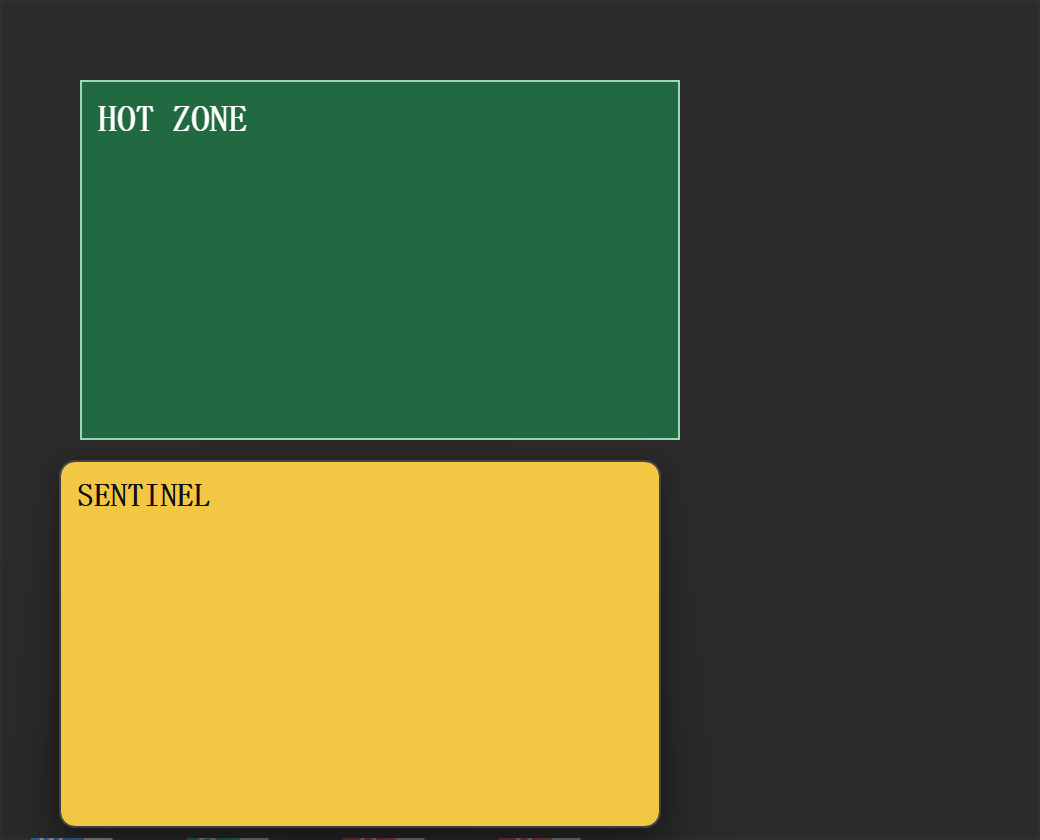
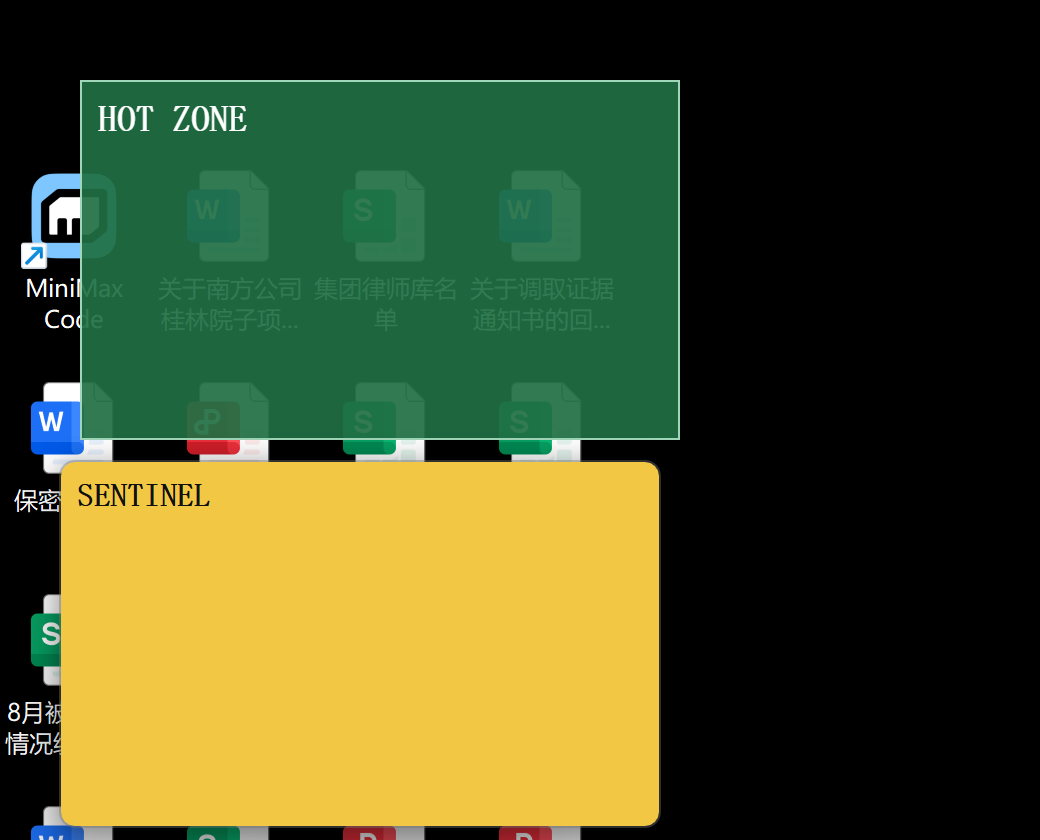
spike01: 评审收编——forward 事件转发单列断言(B 12/12)、降级路径更正(alpha 零差分实证)、清场 await 与去重

diff --git a/.scratch/standalone-app/probe01/probes/a.js b/.scratch/standalone-app/probe01/probes/a.js
@@ -65,21 +65,43 @@ module.exports = async function probeA() {
     ? rep.pass(`卡片区白色文字像素 ${wp.hit}/${wp.n}（文字实色清晰）`)
     : rep.fail(`卡片区白色文字像素不足 ${wp.hit}/${wp.n}`);
 
-  // 5) 关参照窗，实拍面板叠真壁纸（开局已清场，此时面板背后就是壁纸+桌面图标）
+  // 5) 降级路径实测（ADR-0004 备胎）：窗口级整体 alpha。
+  //    同背景（棋盘参照仍在）先后截 opacity=1 / setOpacity(0.45) / 直调
+  //    SetLayeredWindowAttributes(LWA_ALPHA, 115)，差分为零即该手段无视觉效果。
+  //    注意：GDI CopyFromScreen 抓不到部分 alpha 分层窗时差分也会为零，
+  //    故以「opaque 参照窗在同法截图中可见」锚定抓屏通路本身有效。
+  const alphaProbe = async (label, apply, revert) => {
+    apply();
+    await H.sleep(700);
+    const s = H.capture(rect, `a-alpha-${label}`);
+    const d = H.zoneDiff(shot, s, transparentZone);
+    const cardNow = H.whitePixels(s, card);
+    rep.log(`alpha[${label}] 透明区差分 mean=${d.mean.toFixed(2)} max=${d.max}；卡区白字 ${cardNow.hit}/${cardNow.n}`);
+    revert();
+    await H.sleep(400);
+    return d.mean;
+  };
+  const meanOpacity = await alphaProbe(
+    'setopacity-045',
+    () => panel.setOpacity(0.45),
+    () => panel.setOpacity(1));
+  const exAfter = (w32.GetWindowLongW(hwnd, w32.GWL_EXSTYLE) >>> 0).toString(16);
+  rep.note(`setOpacity 后 EXSTYLE=0x${exAfter}（WS_EX_LAYERED=${!!(parseInt(exAfter, 16) & w32.WS_EX_LAYERED)}）`);
+  const meanLwa = await alphaProbe(
+    'lwa-alpha-115',
+    () => w32.SetLayeredWindowAttributes(hwnd, 0, 115, w32.LWA_ALPHA),
+    () => w32.SetLayeredWindowAttributes(hwnd, 0, 255, w32.LWA_ALPHA));
+  if (meanOpacity > 1) rep.pass(`setOpacity(0.45) 在透明窗口上有视觉效果（差分 mean=${meanOpacity.toFixed(2)}），降级路径可用`);
+  else rep.fail('setOpacity(0.45) 与 opacity=1 截图无差——透明窗口上该降级手段无视觉效果（或抓屏盲区），02 勿依赖');
+  if (meanLwa > 1) rep.pass(`直调 SetLayeredWindowAttributes(LWA_ALPHA) 有视觉效果（差分 mean=${meanLwa.toFixed(2)}），可作为降级实现`);
+  else rep.note('SetLayeredWindowAttributes 直调亦无差分——降级需换实现（如非透明窗+CSS 半透明）');
+
+  // 6) 关参照窗，实拍面板叠真壁纸（开局已清场，此时面板背后就是壁纸+桌面图标）
   backdrop.destroy();
   await H.sleep(800);
   const onWall = H.capture(rect, 'a-on-wallpaper');
   const dWall = H.zoneDiff(bareWallpaper, onWall, transparentZone);
   rep.note(`透明区 vs 壁纸基线 mean=${dWall.mean.toFixed(2)} max=${dWall.max} >40占比=${dWall.over40Pct.toFixed(1)}%（仅记录）`);
-
-  // 6) 降级路径实测：窗口级整体 alpha（ADR-0004 已接受的 no-go 备胎）
-  panel.setOpacity(0.45);
-  await H.sleep(600);
-  const alphaShot = H.capture(rect, 'a-alpha-fallback-045');
-  const wpA = H.whitePixels(alphaShot, card);
-  rep.note(`窗口级 alpha=0.45：白字像素 ${wpA.hit}/${wpA.n} (${wpA.pct.toFixed(1)}%) vs 全透明合成 ${wp.pct.toFixed(1)}%（白字变虚的量化证据）`);
-  panel.setOpacity(1);
-  await H.sleep(200);
   panel.destroy();
 
   return rep.verdict(transparencyOk ? 'GO' : 'NO-GO');

diff --git a/.scratch/standalone-app/probe01/lib/win32.js b/.scratch/standalone-app/probe01/lib/win32.js
@@ -34,6 +34,7 @@ const GWL_EXSTYLE = -20;
 const WS_EX_TRANSPARENT = 0x00000020, WS_EX_LAYERED = 0x00080000,
   WS_EX_NOACTIVATE = 0x08000000, WS_EX_TOPMOST = 0x00000008;
 const GCS_COMPSTR = 0x0008, GCS_RESULTSTR = 0x0800;
+const LWA_ALPHA = 0x00000002;
 
 const GetSystemMetrics = user32.func('int __stdcall GetSystemMetrics(int nIndex)');
 const GetCursorPos = user32.func('bool __stdcall GetCursorPos(_Out_ POINT *pt)');
@@ -46,6 +47,7 @@ const SetForegroundWindow = user32.func('bool __stdcall SetForegroundWindow(uint
 const BringWindowToTop = user32.func('bool __stdcall BringWindowToTop(uintptr_t hWnd)');
 const GetWindowRect = user32.func('bool __stdcall GetWindowRect(uintptr_t hWnd, _Out_ RECT *r)');
 const SetWindowPos = user32.func('bool __stdcall SetWindowPos(uintptr_t hWnd, uintptr_t hWndInsertAfter, int x, int y, int cx, int cy, uint32 uFlags)');
+const SetLayeredWindowAttributes = user32.func('bool __stdcall SetLayeredWindowAttributes(uintptr_t hWnd, uint32 crKey, uint8 bAlpha, uint32 dwFlags)');
 const GetWindowLongW = user32.func('long __stdcall GetWindowLongW(uintptr_t hWnd, int nIndex)');
 const SetWindowLongW = user32.func('long __stdcall SetWindowLongW(uintptr_t hWnd, int nIndex, long dwNewLong)');
 const GetClassNameW = user32.func('int __stdcall GetClassNameW(uintptr_t hWnd, uint16 *buf, int nMax)');
@@ -92,12 +94,6 @@ function className(hwnd) {
   let s = '';
   for (let i = 0; i < n; i++) s += String.fromCharCode(buf.readUInt16LE(i * 2));
   return s;
-}
-
-function pidOf(hwnd) {
-  const buf = Buffer.alloc(4);
-  GetWindowThreadProcessId(hwnd, buf);
-  return { pid: buf.readUInt32LE(0), tid: 0 };
 }
 
 function threadIdOf(hwnd) {
@@ -183,7 +179,7 @@ function clickPhys(x, y, button = 'left') {
   send([mouseInput(0, 0, up)]);
 }
 
-function tapKeys(vks, gapMs = 60) {
+function tapKeys(vks) {
   for (const vk of vks) {
     send([keyInput(vk, KEYDOWN)]);
     send([keyInput(vk, KEYUP)]);
@@ -243,11 +239,12 @@ module.exports = {
   SWP_NOSIZE, SWP_NOMOVE, SWP_NOACTIVATE, SWP_NOOWNERZORDER,
   HWND_BOTTOM, HWND_TOP, HWND_TOPMOST, HWND_NOTOPMOST, GWL_EXSTYLE,
   WS_EX_TRANSPARENT, WS_EX_LAYERED, WS_EX_NOACTIVATE, WS_EX_TOPMOST,
-  GCS_COMPSTR, GCS_RESULTSTR, KEYDOWN, KEYUP, KEYUNICODE,
+  GCS_COMPSTR, GCS_RESULTSTR, KEYDOWN, KEYUP, KEYUNICODE, LWA_ALPHA,
   GetSystemMetrics, cursor, moveMousePhys, clickPhys, tapKeys, send, mouseInput, keyInput,
-  rectOf, className, pidOf, threadIdOf, topLevelWindows, findWindowByPid,
-  imeStatus, imeSetOpen, imeString, virtualScreen, WindowFromPoint, windowFromPointRoot,
+  rectOf, className, threadIdOf, topLevelWindows, findWindowByPid,
+  imeStatus, imeSetOpen, imeString, virtualScreen, windowFromPointRoot,
   GetForegroundWindow, SetForegroundWindow, BringWindowToTop, SetWindowPos,
+  SetLayeredWindowAttributes,
   GetWindowLongW, WindowFromPoint, IsWindow, PostMessageW, AttachThreadInput,
   GetCurrentThreadId, GetKeyboardLayout, SetCursorPos, SetWindowLongW, sendUnicode,
   ShowWindow,

diff --git a/.scratch/standalone-app/probe01/probes/b.js b/.scratch/standalone-app/probe01/probes/b.js
@@ -7,15 +7,13 @@
 const { Report } = require('../lib/report');
 const H = require('../lib/harness');
 
-const DESKTOP_CLASSES = ['WorkerW', 'Progman', 'SHELLDLL_DefView', 'SysListView32'];
-
 module.exports = async function probeB() {
   const rep = new Report('b_clickthrough');
   const w32 = H.win32;
   const si = H.screenInfo();
   const f = si.factor;
   rep.note(`screen: phys ${si.phys.w}x${si.phys.h} @ factor ${si.factor}`);
-  H.clearDesktop([{ x: 560 * f, y: 300 * f }, { x: 260 * f, y: 560 * f }]); // 用户窗口全部最小化，保证探针点位之下就是桌面/壁纸
+  await H.clearDesktop([{ x: 560 * f, y: 300 * f }, { x: 260 * f, y: 560 * f }]); // 用户窗口全部最小化，保证探针点位之下就是桌面/壁纸
   await H.sleep(300);
 
   // 布局（DIP）：面板 (80,240,520,420)，热区 rel(40,40,300,180)；
@@ -77,6 +75,22 @@ module.exports = async function probeB() {
     ? rep.pass('穿透态窗口样式含 WS_EX_TRANSPARENT|WS_EX_LAYERED')
     : rep.fail('穿透态窗口样式缺少预期位');
 
+  // 0) forward 事件转发：穿透态下光标扫过面板，渲染层应持续收到 mousemove
+  const mv0 = panelEvents.filter(e => e.type === 'mousemove-forward').length;
+  for (let i = 0; i <= 10; i++) w32.moveMousePhys((200 + i * 20) * f, 350 * f);
+  await H.sleep(400);
+  const mv1 = panelEvents.filter(e => e.type === 'mousemove-forward').length;
+  mv1 > mv0
+    ? rep.pass(`forward:true 事件转发通路：穿透态渲染层收到 mousemove（计数 ${mv0}→${mv1}）`)
+    : rep.fail('穿透态渲染层未收到转发 mousemove（forward 通路未生效）');
+  // 扫描终点可能落在热区/面板上：停回面板外，等轮询把穿透恢复到位再继续
+  w32.moveMousePhys(40, si.phys.h - 40);
+  await H.sleep(500);
+  const exSettled = w32.GetWindowLongW(hwnd, w32.GWL_EXSTYLE);
+  (exSettled & w32.WS_EX_TRANSPARENT)
+    ? rep.note('forward 扫描后穿透态已恢复')
+    : rep.fail('forward 扫描后穿透态未恢复（热区轮询异常）');
+
   const panelHits = () => panelEvents.filter(e => ['mousedown', 'click', 'contextmenu'].includes(e.type)).length;
   const sentinelHits = () => sentinelEvents.filter(e => ['mousedown', 'click', 'contextmenu'].includes(e.type)).length;
 
@@ -100,7 +114,7 @@ module.exports = async function probeB() {
   await H.sleep(450);
   const fg2 = w32.GetForegroundWindow();
   const cls2 = w32.className(fg2);
-  DESKTOP_CLASSES.includes(cls2)
+  H.DESKTOP_CLASSES.includes(cls2)
     ? rep.pass(`穿透态点击直达桌面（前台翻转为 ${cls2}）`)
     : rep.fail(`点击未直达桌面：前台=0x${fg2.toString(16)}(${cls2})`);
   (panelHits() === p0 && sentinelHits() === s0)

diff --git a/.scratch/standalone-app/probe01/probes/c.js b/.scratch/standalone-app/probe01/probes/c.js
@@ -43,6 +43,8 @@ module.exports = async function probeC() {
   const overlap = { x: 900, y: 900 };  // phys：面板∩记事本
   const nOnly = { x: 1360, y: 760 };   // phys：仅记事本
   const wfp = pt => w32.windowFromPointRoot(pt);
+  const pinBottom = () => w32.SetWindowPos(hwnd, w32.HWND_BOTTOM, 0, 0, 0, 0,
+    w32.SWP_NOMOVE | w32.SWP_NOSIZE | w32.SWP_NOACTIVATE | w32.SWP_NOOWNERZORDER);
 
   // 激活记事本（真实用户操作：点击其独占区）→ 自然应在面板之上
   w32.clickPhys(nOnly.x, nOnly.y, 'left');
@@ -52,8 +54,7 @@ module.exports = async function probeC() {
     : rep.fail(`重叠点命中 0x${wfp(overlap).toString(16)}(${w32.className(wfp(overlap))})，非记事本`);
 
   // 底部钉扎
-  const ok = w32.SetWindowPos(hwnd, w32.HWND_BOTTOM, 0, 0, 0, 0,
-    w32.SWP_NOMOVE | w32.SWP_NOSIZE | w32.SWP_NOACTIVATE | w32.SWP_NOOWNERZORDER);
+  const ok = pinBottom();
   await H.sleep(300);
   ok || rep.fail('SetWindowPos(HWND_BOTTOM) 返回失败');
   wfp(overlap) === nhwnd
@@ -75,8 +76,7 @@ module.exports = async function probeC() {
   if (overlapAfterClick === hwnd) {
     rep.note('结论：点击激活会把底部钉扎的面板顶起 —— 生产实现须在交互结束后重新钉扎（或用 WS_EX_NOACTIVATE）');
     // 重新钉扎验证可恢复
-    w32.SetWindowPos(hwnd, w32.HWND_BOTTOM, 0, 0, 0, 0,
-      w32.SWP_NOMOVE | w32.SWP_NOSIZE | w32.SWP_NOACTIVATE | w32.SWP_NOOWNERZORDER);
+    pinBottom();
     await H.sleep(300);
     wfp(overlap) === nhwnd
       ? rep.pass('重新钉扎后面板回到普通窗之下（可恢复）')
@@ -95,8 +95,7 @@ module.exports = async function probeC() {
   const overlapSF = wfp(overlap);
   rep.note(`SetForegroundWindow(面板)后：前台匹配=${fgSF === hwnd}，重叠点=0x${overlapSF.toString(16)}(${w32.className(overlapSF)})`);
   if (overlapSF === hwnd) {
-    w32.SetWindowPos(hwnd, w32.HWND_BOTTOM, 0, 0, 0, 0,
-      w32.SWP_NOMOVE | w32.SWP_NOSIZE | w32.SWP_NOACTIVATE | w32.SWP_NOOWNERZORDER);
+    pinBottom();
     await H.sleep(200);
   }
 
@@ -104,8 +103,7 @@ module.exports = async function probeC() {
   w32.SetWindowPos(nhwnd, w32.HWND_TOPMOST, 0, 0, 0, 0,
     w32.SWP_NOMOVE | w32.SWP_NOSIZE | w32.SWP_NOACTIVATE);
   await H.sleep(300);
-  w32.SetWindowPos(hwnd, w32.HWND_BOTTOM, 0, 0, 0, 0,
-    w32.SWP_NOMOVE | w32.SWP_NOSIZE | w32.SWP_NOACTIVATE | w32.SWP_NOOWNERZORDER);
+  pinBottom();
   await H.sleep(300);
   wfp(overlap) === nhwnd
     ? rep.pass('置顶窗（TOPMOST）盖住底部钉扎的面板（z 序分带符合预期）')

diff --git a/.scratch/standalone-app/probe01/lib/harness.js b/.scratch/standalone-app/probe01/lib/harness.js
@@ -143,6 +143,7 @@ async function clearDesktop(points = []) {
     return DESKTOP_CLASSES.includes(cls);
   };
   minimizedForRestore = [];
+  onCleanup(restoreDesktop); // 先注册还原，循环中途崩溃也能恢复用户窗口
   for (let attempt = 0; attempt < 3; attempt++) {
     for (const h of w32.topLevelWindows()) {
       if (CLEAR_DESKTOP_SKIP.has(w32.className(h))) continue;
@@ -154,7 +155,6 @@ async function clearDesktop(points = []) {
     await sleep(700);
     if (points.every(isDesktopAt)) break;
   }
-  onCleanup(restoreDesktop);
 }
 
 function restoreDesktop() {
@@ -202,5 +202,5 @@ async function launchOrdinaryApp(report, { x, y, w, h }) {
 module.exports = {
   sleep, screenInfo, createWindow, hwndOf, capture, zoneDiff, whitePixels,
   onCleanup, cleanupAll, waitForEvent, clearDesktop, launchOrdinaryApp,
-  ROOT, win32,
+  DESKTOP_CLASSES, ROOT, win32,
 };

diff --git a/.scratch/standalone-app/probe01/renderers/b.html b/.scratch/standalone-app/probe01/renderers/b.html
@@ -14,4 +14,9 @@
       ipcRenderer.send('b:dom', { type: ev, x: e.clientX, y: e.clientY, button: e.button });
     });
   }
+  // 穿透态 forward 转发验证用：只上报计数，避免刷爆事件数组
+  let moves = 0;
+  window.addEventListener('mousemove', () => {
+    if (++moves % 25 === 1) ipcRenderer.send('b:dom', { type: 'mousemove-forward', count: moves });
+  });
 </script>

diff --git a/.scratch/standalone-app/probe01/probes/z.js b/.scratch/standalone-app/probe01/probes/z.js
@@ -8,10 +8,6 @@ module.exports = async function diagZ() {
   const w32 = H.win32;
   const f = H.screenInfo().factor;
 
-  const GA_ROOT = 2, GA_ROOTOWNER = 3;
-  const GetAncestor = w32.user32?.GetAncestor;
-  void GetAncestor;
-
   const tops = w32.topLevelWindows();
   rep.note(`可见顶层窗口数: ${tops.length}（自顶向下）`);
   tops.slice(0, 12).forEach((h, i) => {

diff --git a/.scratch/standalone-app/issues/01-transparent-input-spike.md b/.scratch/standalone-app/issues/01-transparent-input-spike.md
@@ -22,11 +22,12 @@
 
 - 透明窗口（transparent+frameless）叠在不透明棋盘参照窗之上，透明区棋盘双色命中率 **100%**（70864 样本）；卡片区实色绘制、白色文字像素 1121/54000 实色清晰。证据：`a-transparent-on-checker.png`。
 - 关参照窗实拍面板叠真壁纸：桌面图标透过透明区清晰可见，文字实色。证据：`a-on-wallpaper.png`、`a-wallpaper-baseline.png`。
-- 降级路径（ADR-0004 备胎）实测：`setOpacity(0.45)` 后白字像素从 2.1% 跌到 0.4%，白字明显变虚（`a-alpha-fallback-045.png`）。GO 成立，降级路径仅作记录不需要。
+- 降级路径（ADR-0004 备胎）实测——**重要更正（评审发现）**：最初一轮的「白字 2.1%→0.4%」结论作废，那轮截图经 MD5 比对与裸壁纸基线逐字节相同（GDI CopyFromScreen 未把半透明窗截进去）。重做的严格版本：同背景（棋盘参照）下先后测 `setOpacity(0.45)` 与直调 `SetLayeredWindowAttributes(LWA_ALPHA, 115)`，两者 EXSTYLE 均已置上 WS_EX_LAYERED（0x280000），但截屏差分均为 **零**（`a-alpha-setopacity-045.png`、`a-alpha-lwa-alpha-115.png`）。两种解释无法用本探针区分：窗口级 alpha 在透明合成路径上无视觉效果，或 GDI 抓屏对部分 alpha 分层窗存在盲区。**结论：GO 成立不依赖降级；若未来真需降级，勿依赖窗口级 alpha，改用「非透明窗口 + 渲染层 CSS 半透明」并另行实测。**
 
-**② 鼠标穿透 + 热区恢复：11/11 PASS**（`b_clickthrough.log.txt`）
+**② 鼠标穿透 + 事件转发：12/12 PASS**（`b_clickthrough.log.txt`）
 
 - 穿透态 EXSTYLE 实测含 WS_EX_TRANSPARENT|WS_EX_LAYERED；真实 SendInput 点击穿过面板落到下层窗口（哨兵收 click 并获前台）、落到系统桌面（前台翻转为 Progman）、右键同样穿透。
+- **事件转发（forward:true）单列断言**：穿透态下光标扫过面板，渲染层持续收到 mousemove——热区悬停检测的两条通路（主进程 GetCursorPos 轮询、渲染层转发事件）都实证可用。
 - 热区机制按 spec 设计验证：渲染层声明热区矩形、主进程 GetCursorPos 25ms 轮询命中切换 `setIgnoreMouseEvents(true,{forward:true})/false`——进入热区 WS_EX_TRANSPARENT 移除、点击由面板接收（client 坐标精确）、面板可获前台；离开热区穿透恢复、后续点击不再被拦。
 - 证据：`b-pass-through.png`、`b-hotzone-click.png`。
 
@@ -44,7 +45,7 @@
 
 **02 实施要点（据此定案）**
 
-1. 透明路径定案：`transparent:true + frame:false`，不走 alpha 降级。
+1. 透明路径定案：`transparent:true + frame:false`，不走 alpha 降级（降级路径本身已证不可靠，见①更正块；真需降级时用非透明窗+CSS 半透明另测）。
 2. 穿透：默认 `setIgnoreMouseEvents(true,{forward:true})`；主进程持有渲染层声明的热区矩形，GetCursorPos 轮询（25ms 量级）命中切换；切换即改 EXSTYLE，事件通路已验证。
 3. 钉扎：koffi FFI 直调 SetWindowPos(HWND_BOTTOM)，flag 用 `SWP_NOMOVE|NOSIZE|NOACTIVATE|NOOWNERZORDER`；触发时机=启动后+每次热区交互结束+Win+D 恢复后。
 4. 聚焦：`win.focus()`（或纯 SetForegroundWindow，它不顶起 z 序可省一次重钉）+ 渲染层 JS focus 输入框；两者都已在底部 z 验证。
